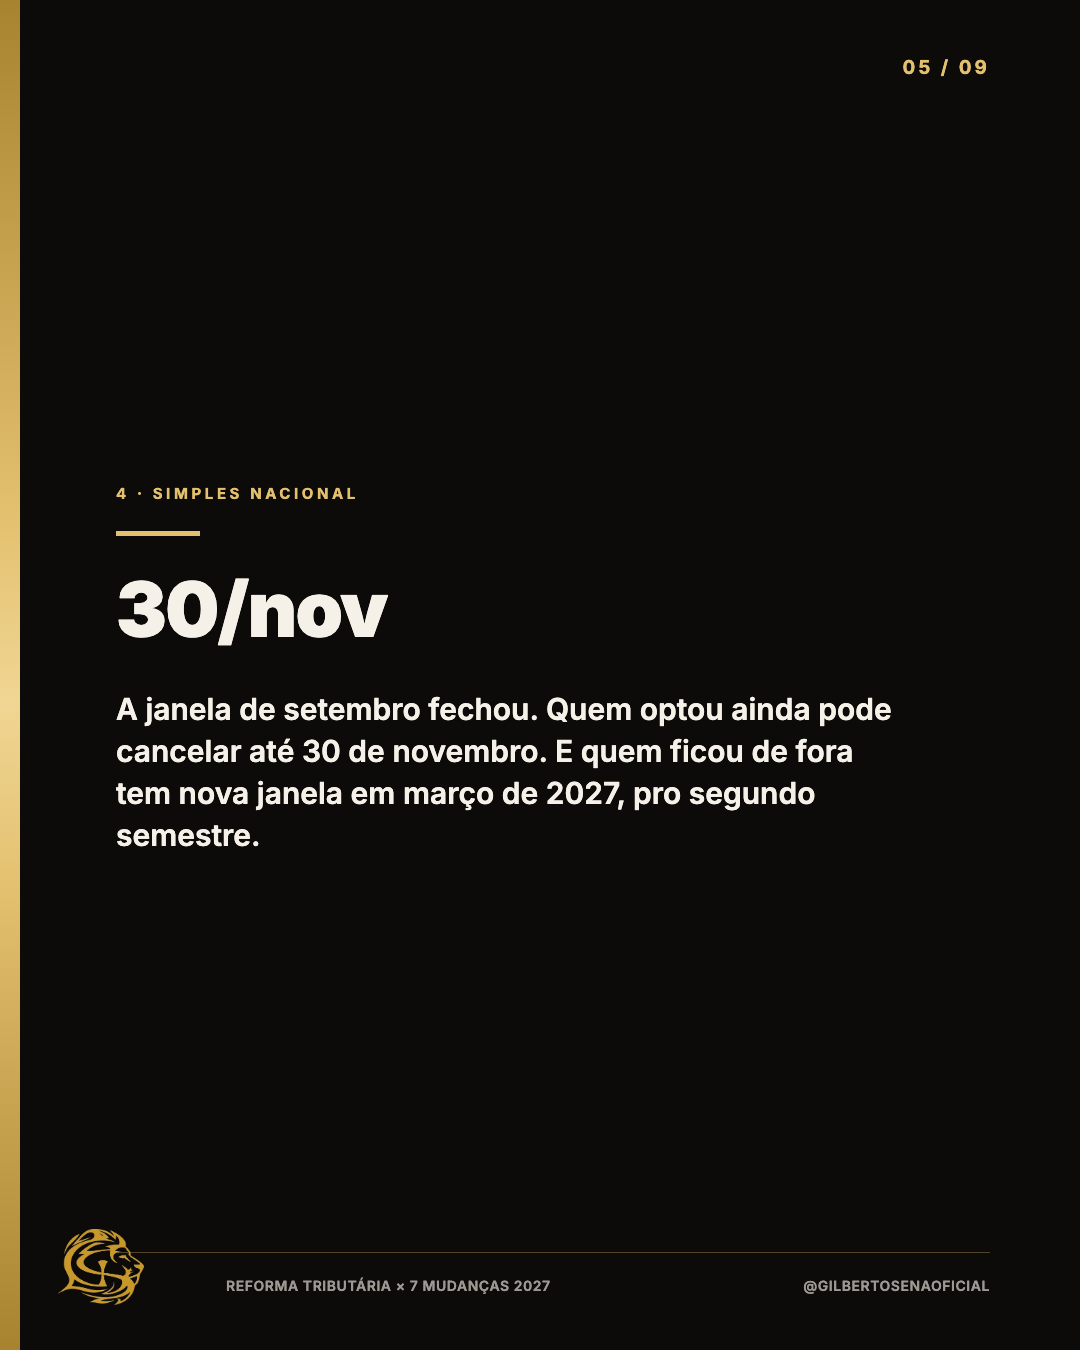
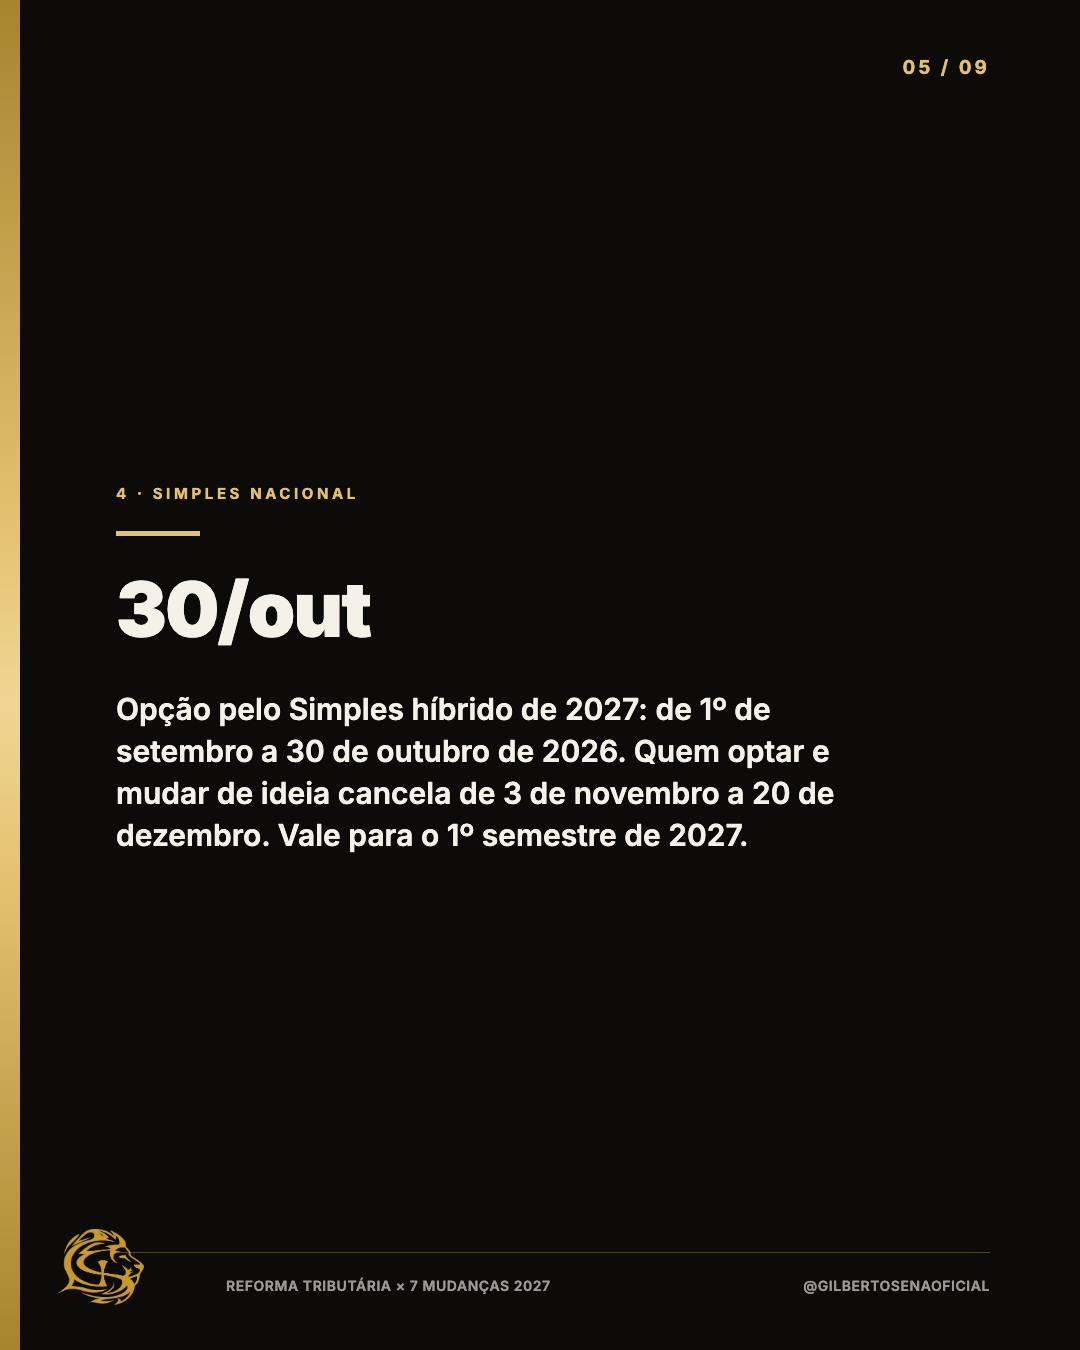
Prazo do Simples: 7 mudancas corrigido e reagendado (19/10 21h), reel do Comite Gestor fora do YouTube

Changed region(s): [[0.0917, 0.4356, 0.825, 0.6533]]

diff --git a/saidas/CARROSSEIS/carrossel-7-mudancas-2027-2026-08-31/carrossel.html b/saidas/CARROSSEIS/carrossel-7-mudancas-2027-2026-08-31/carrossel.html
@@ -188,8 +188,8 @@
   </div>
   <div class="kicker">4 · SIMPLES NACIONAL</div>
   <div class="rule"></div>
-  <div class="numero-big">30/nov</div>
-  <div class="numero-sub">A janela de setembro fechou. Quem optou ainda pode cancelar até 30 de novembro. E quem ficou de fora tem nova janela em março de 2027, pro segundo semestre.</div>
+  <div class="numero-big">30/out</div>
+  <div class="numero-sub">Opção pelo Simples híbrido de 2027: de 1º de setembro a 30 de outubro de 2026. Quem optar e mudar de ideia cancela de 3 de novembro a 20 de dezembro. Vale para o 1º semestre de 2027.</div>
   <div class="footer"><span>REFORMA TRIBUTÁRIA × 7 MUDANÇAS 2027</span><span>@GILBERTOSENAOFICIAL</span></div>
 </div>
 

diff --git a/_memoria/onde-paramos.md b/_memoria/onde-paramos.md
@@ -21,11 +21,16 @@ estúdio de vídeo (`~/Ferramentas/editor-video-gilberto/remotion/src/`).
 
 **SB (19/out): o projeto SBS virou SB, Sena e Bittar.** Ver a seção 1.
 
-**Duas pendências do prazo do Simples (17/out), ainda abertas:**
-- **🔴 Já publicado e errado, só ele resolve no app:** o `7-mudancas-2027` (reposto 16/10) diz no item 4 "a janela de
-  setembro fechou, cancela até 30/11". E o reel "Comitê Gestor / Simples" (publicado 14 a 16/10) diz que o prazo "está
-  na lei e não vai mudar". O prazo certo (CGSN 194/2026): opção até 30/10, cancelamento de 3/11 a 20/12.
-  **Perguntar se ele quer apagar e repostar corrigido.**
+**Prazo do Simples (19/out): ele decidiu apagar os dois posts errados.**
+- ✅ O reel "Comitê Gestor / Simples" **saiu do YouTube** (apagado pela Zernio).
+  No Instagram ele nunca chegou a sair.
+- ✅ **O `7-mudancas-2027` foi corrigido** (item 4: opção até 30/10, cancelamento
+  de 3/11 a 20/12, CGSN 194/2026, conferido no CFC em 19/out) e **agendado para
+  19/10 às 21h** no Instagram (Zernio `6ad6947c756c974ea893f060`). É esse que ele
+  vai fixar na grade.
+- ⏳ **Só ele apaga, no app:** o carrossel antigo (`instagram.com/p/DekxfVgCoMg/`)
+  e o reel no TikTok (`tiktok.com/@gilbertosenaoficial/video/7696670028137041173`).
+  Conferir se apagou.
 - **O carrossel `simples-hibrido` tem o mesmo erro** e segue segurado: reescrever antes de entrar na fila.
 
 **Série "A Base da Gestão" pro YouTube (18/out): agendada, 1 aula por dia às 20h de 19 a 26/10, na playlist própria.** Conferir no dia 19 se a capa entrou (exige canal verificado). 8 aulas horizontais (22 min no total), feitas do

diff --git a/_memoria/cronograma-de-postagens.md b/_memoria/cronograma-de-postagens.md
@@ -53,6 +53,7 @@ e no YouTube *"5 reels por dia, pois quero movimentar o canal"*, com *"os reels 
 | 19/10 seg | 19h00 | YouTube | reels | Dobrar a equipe não dobra o lucro. |
 | 19/10 seg | 20h00 | Instagram | carrossel | Alugar mais de 3 imóveis te transforma em contribuinte, e a maioria de… |
 | 19/10 seg | 20h00 | YouTube | vídeo longo | A Base da Gestão, Aula 1: Você é um empresário chupengole? |
+| 19/10 seg | 21h00 | Instagram | carrossel | **Repost corrigido** das 7 mudanças (prazo do Simples), Zernio `6ad6947c…` |
 | 20/10 ter | 05h00 | Instagram | card | Fale com sabedoria. Uma conversa bem conduzida pode fortalecer uma par… |
 | 20/10 ter | 06h00 | TikTok | reels | Dobrar a equipe não dobra o lucro. |
 | 20/10 ter | 07h00 | YouTube | reels | Quebrar o negócio não é só fechar as portas e ir pra sarjeta. |

diff --git a/saidas/CARROSSEIS/carrossel-7-mudancas-2027-2026-08-31/legenda.md b/saidas/CARROSSEIS/carrossel-7-mudancas-2027-2026-08-31/legenda.md
@@ -6,7 +6,7 @@ Em 2027 o sistema tributário inteiro troca de lugar, em sete frentes ao mesmo t
 
 3. Split payment: o imposto vai sair antes de entrar no seu caixa, mas só a partir do 2º semestre de 2027, em etapas (não janeiro, como se falava).
 
-4. Simples Nacional: a janela de setembro fechou. Quem optou pode cancelar até 30 de novembro, e quem ficou de fora tem nova janela em março de 2027, valendo pro segundo semestre.
+4. Simples Nacional híbrido: a opção para 2027 vai de 1º de setembro a 30 de outubro de 2026, e o cancelamento, de 3 de novembro a 20 de dezembro (Resolução CGSN 194/2026). Vale para o primeiro semestre de 2027.
 
 5. Autônomo entra no sistema acima de R$40.500 por ano, uns R$3.375 por mês.
 

diff --git a/saidas/CARROSSEIS/carrossel-7-mudancas-2027-2026-08-31/texto.md b/saidas/CARROSSEIS/carrossel-7-mudancas-2027-2026-08-31/texto.md
@@ -31,7 +31,7 @@ Kicker: 3 — SPLIT PAYMENT (ADIADO)
 
 ## Slide 5 — NÚMERO (dark)
 Kicker: 4 — SIMPLES NACIONAL
-"30/nov" + "A janela de setembro fechou. Quem optou ainda pode cancelar até 30 de novembro. E quem ficou de fora tem nova janela em março de 2027, pro segundo semestre."
+"30/out" + "Opção pelo Simples híbrido de 2027: de 1º de setembro a 30 de outubro de 2026. Quem optar e mudar de ideia cancela de 3 de novembro a 20 de dezembro. Vale para o 1º semestre de 2027." (corrigido em 19/out/2026, Resolução CGSN 194/2026)
 
 ## Slide 6 — SOLO (light)
 Kicker: 5 — O AUTÔNOMO ENTRA
